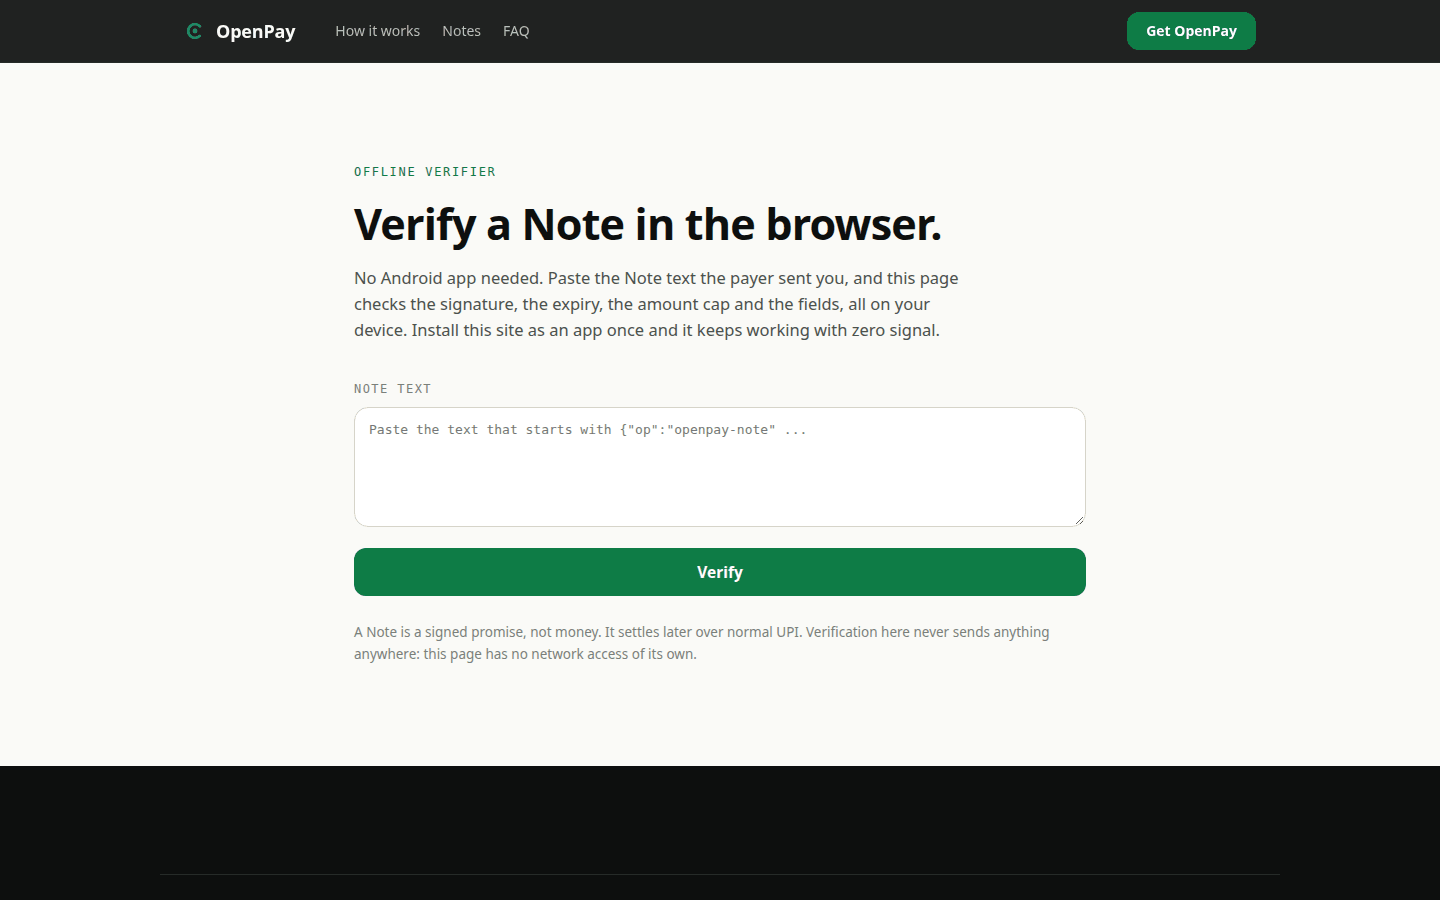
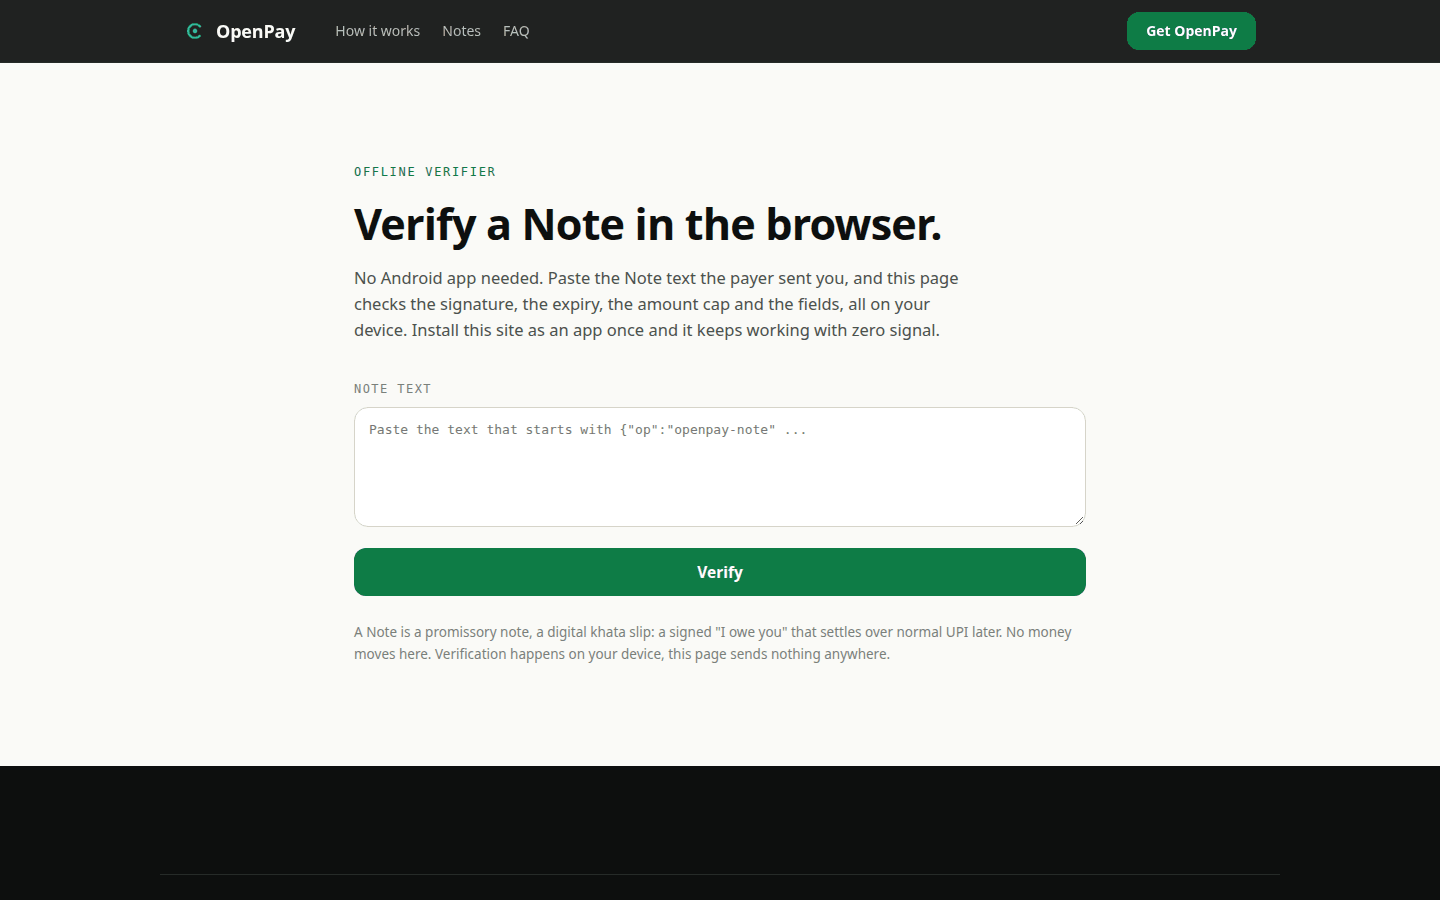
site: ordered 7 screenshots, distinct notes shot, visible map button, NI Act promissory framing, devs section up top, CI names assets OpenPay-vTAG.apk

Changed region(s): [[0.25, 0.6844, 0.75, 0.7467]]

diff --git a/site/index.html b/site/index.html
@@ -143,15 +143,35 @@
   </div>
 </section>
 
+
+<section class="section" id="devs">
+  <div class="wrap dev-cta">
+    <p class="eyebrow">For developers</p>
+    <h2>Fork it. Your agent can ship a build tonight.</h2>
+    <p class="sub">Kotlin and Compose, one static site, 48 tests, CI that signs and releases on every tag. The <a href="https://github.com/sahilwasgood/openpay/blob/main/CONTRIBUTING.md">forking guide</a> is the whole map.</p>
+    <div class="cta-row">
+      <a class="btn btn-primary" href="https://github.com/sahilwasgood/openpay/fork">Fork on GitHub</a>
+      <a class="btn btn-ghost" href="https://github.com/sahilwasgood/openpay/blob/main/docs/ARCHITECTURE.md">Read the map</a>
+    </div>
+  </div>
+</section>
+
 <section class="section section-tint" id="notes">
   <div class="wrap wrap-narrow">
     <p class="eyebrow">The fourth rail</p>
     <h2>A Note is a promissory note.</h2>
-    <p class="sub">You already know this instrument. When a kirana shop lets you take udhaar, the shopkeeper writes your name and the amount in the khata book, and both sides trust that record. A Note is the same slip, digital. Your phone signs "I owe Meera Rs 45" with a key that cannot be forged, and nobody can quietly edit the amount afterwards. No money moves when it is written. It settles over normal UPI later.</p>
+    <p class="sub">You met this instrument in school banking: under the Negotiable Instruments Act, 1881, a promissory note is a written, unconditional promise, signed by the maker, to pay a certain sum to a certain person. India runs on its informal twin every day: udhaar written in the kirana's khata book, trusted on both sides, settled later. An OpenPay Note is both at once, digital.</p>
+    <div class="note-map">
+      <div class="note-map-row"><span>Maker, the signer</span><strong>Your phone's key, never leaves it</strong></div>
+      <div class="note-map-row"><span>Payee</span><strong>Name and UPI ID in the note</strong></div>
+      <div class="note-map-row"><span>Certain sum</span><strong>The amount, locked under the signature</strong></div>
+      <div class="note-map-row"><span>Written and signed</span><strong>Ed25519 signature over every field</strong></div>
+      <div class="note-map-row"><span>Settled later</span><strong>One tap over normal UPI, with your PIN</strong></div>
+    </div>
     <div class="notes-steps">
       <div class="notes-step"><span>1</span><div><strong>Write it, offline.</strong> No signal needed. Your phone signs the payee, the amount, a serial number and an expiry, then shows a QR.</div></div>
       <div class="notes-step"><span>2</span><div><strong>Check it, offline.</strong> The payee scans. Signature, expiry, the Rs 2,000 cap and replay by serial, all verified on their phone. Zero network on either side.</div></div>
-      <div class="notes-step"><span>3</span><div><strong>Honour it, online.</strong> Later, with signal, one tap opens your usual UPI app with payee and amount prefilled. You pay with your PIN, as always.</div></div>
+      <div class="notes-step"><span>3</span><div><strong>Honour it, online.</strong> Later, with signal, one tap opens your usual UPI app with payee and amount prefilled.</div></div>
     </div>
     <p class="sub">Forged screenshots cannot pass, because nothing visual is trusted. The same slip cannot be shown twice, because the serial is remembered. And the receiver does not even need the app: any browser can check a Note on the <a href="verify.html">verify page</a>, loaded once and offline forever after.</p>
   </div>
@@ -313,17 +333,6 @@
   </div>
 </section>
 
-<section class="section" id="devs">
-  <div class="wrap wrap-narrow dev-cta">
-    <p class="eyebrow">For developers</p>
-    <h2>Fork it. Your agent can ship a build tonight.</h2>
-    <p class="sub">Kotlin and Compose, one static site, 48 tests, CI that signs and releases on every tag. The <a href="https://github.com/sahilwasgood/openpay/blob/main/CONTRIBUTING.md">forking guide</a> is the whole map: build, sign, deploy, ship your first change in an evening.</p>
-    <div class="cta-row">
-      <a class="btn btn-primary" href="https://github.com/sahilwasgood/openpay/fork">Fork on GitHub</a>
-      <a class="btn btn-ghost" href="https://github.com/sahilwasgood/openpay/blob/main/docs/ARCHITECTURE.md">Read the map</a>
-    </div>
-  </div>
-</section>
 
 </main>
 
@@ -360,11 +369,12 @@
       </div>
     </div>
     <div class="pwb-shots">
-      <img src="screenshots/mobile.png" alt="The pay screen with the live rail ladder" loading="lazy">
-      <img src="screenshots/mobile-ladder.png" alt="Switch network state, watch the rail decision" loading="lazy">
-      <img src="screenshots/mobile-notes.png" alt="What a Note is, in plain words" loading="lazy">
-      <img src="screenshots/mobile-mdr.png" alt="The merchant fee calculator" loading="lazy">
-      <img src="screenshots/mobile-verify.png" alt="Verify a Note in any browser" loading="lazy">
+      <img src="screenshots/mobile.png" alt="The pay screen" loading="lazy">
+      <img src="screenshots/mobile-ladder.png" alt="Zero signal, the Note rail picks itself" loading="lazy">
+      <img src="screenshots/mobile-notes.png" alt="A Note is a promissory note" loading="lazy">
+      <img src="screenshots/mobile-mdr.png" alt="The fee calculator" loading="lazy">
+      <img src="screenshots/mobile-verify.png" alt="Verify in any browser" loading="lazy">
+      <img src="screenshots/desktop.png" alt="OpenPay on the desktop" loading="lazy">
       <img src="screenshots/desktop-verify.png" alt="The browser verifier" loading="lazy">
     </div>
     <p class="pwb-desc">UPI that survives zero signal. Works offline once installed, which is rather the point.</p>

diff --git a/site/styles.css b/site/styles.css
@@ -543,3 +543,19 @@ h2 { font-size: clamp(1.9rem, 3.4vw, 2.7rem); margin-bottom: 16px; }
 }
 
 .mdr-row input { width: 100%; min-width: 0; }
+
+/* ---------- dev cta + note map ---------- */
+
+.dev-cta .btn-ghost { color: var(--ink); border-color: var(--line-2); }
+.dev-cta .btn-ghost:hover { background: var(--paper-2); border-color: var(--line-2); }
+
+.note-map { margin: 30px 0; border-top: 1px solid var(--line-2); }
+.note-map-row {
+  display: grid; grid-template-columns: 200px 1fr; gap: 18px;
+  padding: 11px 0; border-bottom: 1px solid var(--line-2); font-size: 14.5px;
+}
+.note-map-row span { color: var(--ink-3); }
+.note-map-row strong { font-weight: 600; }
+@media (max-width: 720px) {
+  .note-map-row { grid-template-columns: 1fr; gap: 2px; }
+}

diff --git a/site/sw.js b/site/sw.js
@@ -5,7 +5,7 @@
    Offline, the cache answers. Each deploy ships a new CACHE id and the old
    cache is deleted only after the new one is fully written. */
 
-const CACHE = 'openpay-v6';
+const CACHE = 'openpay-v7';
 
 const SHELL = [
   './',
